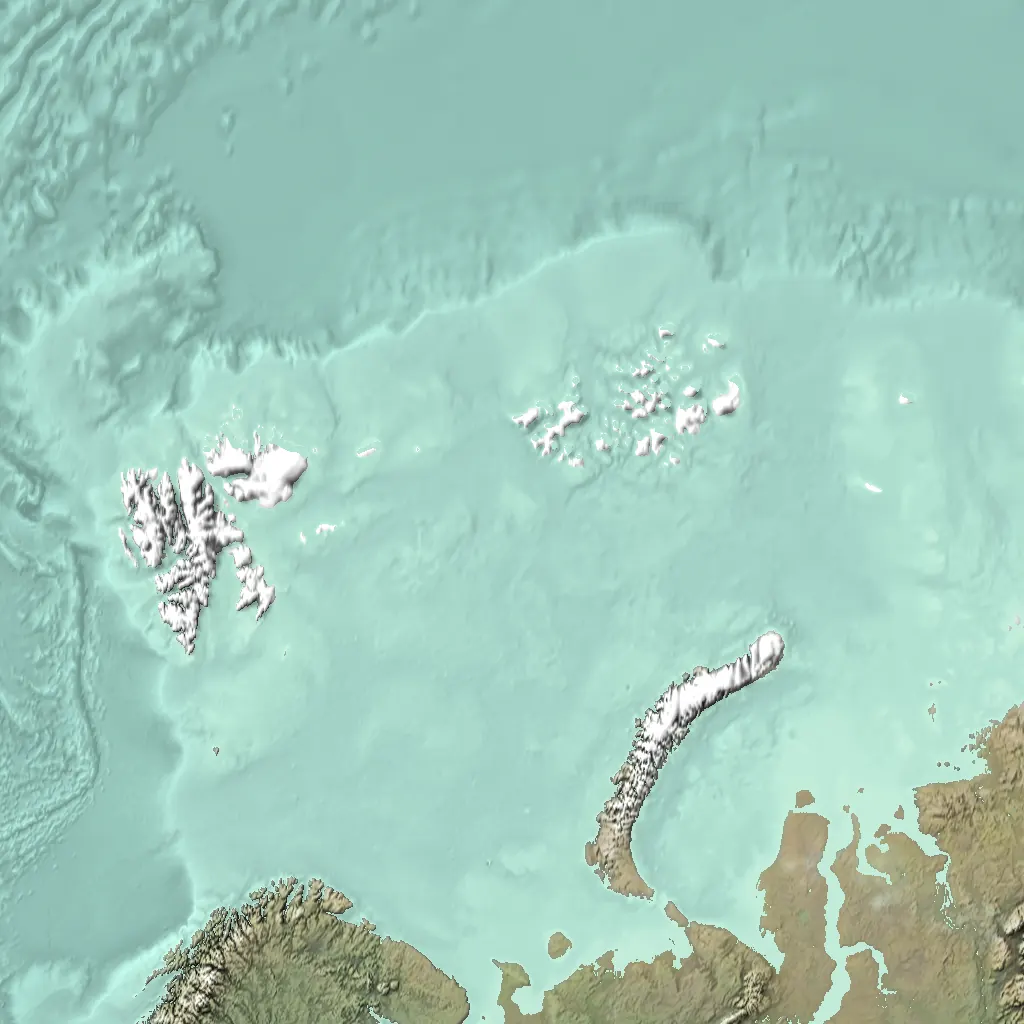
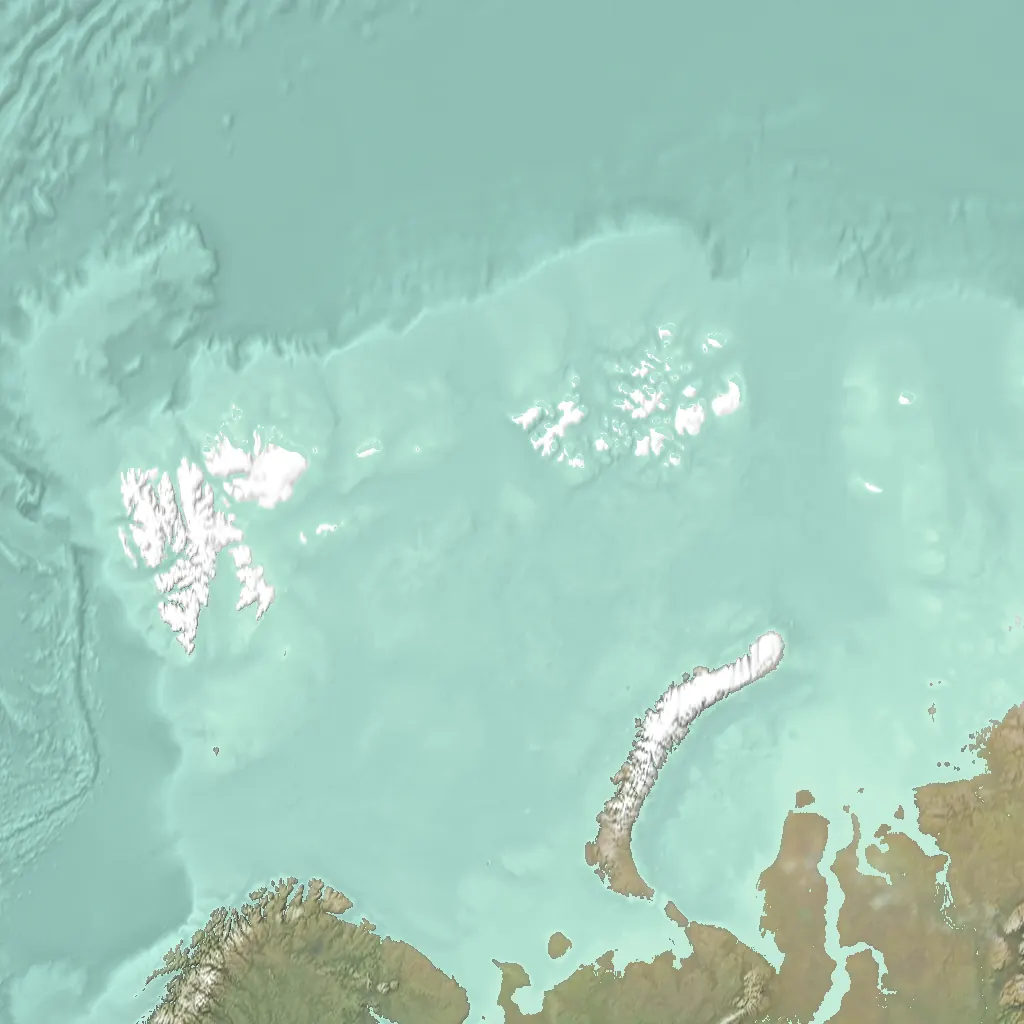
Gentler world view relief, stronger relief eases in with zoom; smooth list scrolling on Android
- World and continent tiles are built with softer shading (lower exaggeration, lighter cast
  shadows and valley shade); the strong close-up relief fades in as you zoom.
- The list of places: only the place on screen animates, covered places are not painted,
  no frosted glass, scroll work once per frame (Android was stuttering and painting grey boxes).

Claude-Session: https://claude.ai/code/session_01KVdNw979WxCLGLb6ytawBs

diff --git a/public/styles.css b/public/styles.css
@@ -63,18 +63,21 @@ button{font:inherit;cursor:pointer;border:0;background:none;color:inherit}
 @supports(height:100svh){:root{--vh:100svh}}
 .stack{position:relative}
 .stack .snap{position:absolute;left:0;width:1px;height:1px;pointer-events:none}
-.reel{position:sticky;top:0;height:var(--vh);overflow:hidden;color:#fff;background:var(--deep)}
-.reel-bg{position:absolute;inset:0;transform:scale(calc(1.06 - var(--c,0)*.06));transform-origin:50% 40%;transition:transform .2s linear}
-.reel.in .reel-bg .media{animation:push 30s ease-in-out infinite alternate}
+.reel{position:sticky;top:0;height:var(--vh);overflow:hidden;color:#fff;background:var(--deep);contain:paint}
+.reel.buried{visibility:hidden}                       /* fully covered by the next place: don't paint it */
+.reel:not(.cur) .amb{display:none}                    /* only the place on screen has drifting clouds and birds */
+.reel:not(.cur) *{animation-play-state:paused}
+.reel-bg{position:absolute;inset:0;transform:scale(calc(1.06 - var(--c,0)*.06));transform-origin:50% 40%}
+.reel.cur .reel-bg .media{animation:push 30s ease-in-out infinite alternate}
 .reel::after{content:"";position:absolute;inset:0;background:linear-gradient(180deg,rgba(0,0,0,.35),transparent 26%,transparent 42%,rgba(0,0,0,.78));pointer-events:none}
 .reel-shade{position:absolute;inset:0;z-index:4;background:#0b0907;opacity:calc(var(--c,0)*.75);pointer-events:none}
 .reel-copy{position:absolute;z-index:3;left:clamp(20px,6vw,80px);right:52px;bottom:calc(76px + env(safe-area-inset-bottom,0px));max-width:660px;opacity:0;transform:translateY(40px);transition:opacity .9s .1s,transform .9s .1s cubic-bezier(.2,.7,.2,1)}
-.reel.in .reel-copy{opacity:1;transform:translateY(calc(var(--c,0)*-60px))}
+.reel.in .reel-copy{opacity:1;transform:none}
 .reel-meta{display:flex;gap:6px 16px;align-items:baseline;font-size:.78rem;letter-spacing:.12em;text-transform:uppercase;opacity:.9;margin-bottom:.6rem;flex-wrap:wrap}
 .reel-no{font-family:var(--serif);font-size:1.5rem;letter-spacing:0;color:var(--lightaccent)}.reel-no small{font-size:.8rem;opacity:.7}
 .reel-copy h3{font-size:clamp(3rem,13vw,7.5rem);line-height:.92;margin:0 0 .7rem}
 .reel-hook{font-size:clamp(1rem,1.6vw,1.2rem);line-height:1.4;max-width:42ch;opacity:.95;margin-bottom:.9rem}
-.reel-fact{font-size:.86rem;line-height:1.45;max-width:46ch;padding:10px 14px;border-left:3px solid var(--accent);background:rgba(30,44,56,.38);backdrop-filter:blur(6px);-webkit-backdrop-filter:blur(6px);border-radius:0 12px 12px 0;margin-bottom:.9rem}
+.reel-fact{font-size:.86rem;line-height:1.45;max-width:46ch;padding:10px 14px;border-left:3px solid var(--accent);background:rgba(30,44,56,.6);border-radius:0 12px 12px 0;margin-bottom:.9rem}
 .reel-fact b{display:block;font-family:var(--serif);font-weight:400;font-size:1.25rem;margin-bottom:2px}
 .reel-row{display:flex;gap:14px;font-size:.9rem;margin-bottom:1rem;opacity:.95}.reel-row span+span::before{content:"·";margin-right:14px;opacity:.6}
 .reel-btns{display:flex;gap:8px;flex-wrap:wrap}
@@ -527,3 +530,6 @@ footer{background:var(--mint2)}
 .ld-copy b{font-family:var(--serif);font-weight:400;font-size:clamp(1.3rem,4.5vw,1.8rem)}
 .ld-copy small:last-child{font-size:.8rem;color:var(--muted)}
 @media (prefers-reduced-motion:reduce){.ld-cloud,.ld-sway,.ld-glow,.ld-blink,.ld-puff{animation:none}.ld-balloon{animation:none;bottom:36vh}}
+
+/* phones: no frosted glass inside the full-screen places (it made Android stutter and paint grey boxes while scrolling) */
+.reel .btn.ghost{backdrop-filter:none;-webkit-backdrop-filter:none;background:rgba(255,255,255,.24)}

diff --git a/public/app.js b/public/app.js
@@ -158,11 +158,17 @@ stack.addEventListener('click',e=>{
 $('#dots').addEventListener('click',e=>{const b=e.target.closest('[data-d]');if(b)toPanel(+b.dataset.d)});
 // as the next place slides up over this one, this one sinks back a little and darkens
 let stackCur=-1;
-function onStack(){
+let stackRAF=0;
+function onStack(){if(!stackRAF)stackRAF=requestAnimationFrame(()=>{stackRAF=0;stackFrame()})}   // at most once per frame
+function stackFrame(){
   const r=stack.getBoundingClientRect(),H=innerHeight,ps=$$('.reel',stack);if(!ps.length)return;
   const h=ps[0].offsetHeight||H;
-  ps.forEach((p,i)=>{const nextTop=r.top+(i+1)*h,c=Math.min(1,Math.max(0,1-nextTop/h));p.style.setProperty('--c',c.toFixed(3));
-    if(r.top+i*h<H*.45)p.classList.add('in')});
+  ps.forEach((p,i)=>{const top=r.top+i*h,nextTop=top+h,c=Math.min(1,Math.max(0,1-nextTop/h));
+    if(Math.abs((p._c??-1)-c)>.004){p._c=c;p.style.setProperty('--c',c.toFixed(3))}   // only touch the places that moved
+    if(top<H*.45)p.classList.add('in');
+    const onScreen=top<H-2&&nextTop>2&&c<.999;
+    if(p.classList.contains('cur')!==onScreen)p.classList.toggle('cur',onScreen);      // only what you can see animates
+    const buried=c>=.999&&i<ps.length-1;if(p.classList.contains('buried')!==buried)p.classList.toggle('buried',buried)});
   const i=Math.min(ps.length-1,Math.max(0,Math.round(-r.top/h)));
   if(i!==stackCur){stackCur=i;$$('#dots button').forEach((d,k)=>d.classList.toggle('on',k===i))}
   $('#dots').classList.toggle('show',r.top<H*.5&&r.bottom>H*.5);
@@ -198,7 +204,8 @@ const pager=(()=>{
     if(t.on===null){if(Math.abs(dy)<6&&Math.abs(dx)<6)return;const a=t.a,s=t.s0,dir=dy<0?1:-1;
       t.on=Math.abs(dy)>Math.abs(dx)&&inRegion(a,s)&&!((dir<0&&s<=a[0]+4)||(dir>0&&s>=a[a.length-1]-4))}
     if(!t.on)return;e.preventDefault();const now=performance.now();t.v=(y-t.last)/Math.max(1,now-t.lt);t.last=y;t.lt=now;
-    scrollTo({top:Math.max(t.a[0],Math.min(t.a[t.a.length-1],t.s0-dy)),behavior:'instant'})},{passive:false});
+    t.want=Math.max(t.a[0],Math.min(t.a[t.a.length-1],t.s0-dy));
+    if(!t.raf)t.raf=requestAnimationFrame(()=>{if(t){t.raf=0;scrollTo({top:t.want,behavior:'instant'})}})},{passive:false});   // follow the finger once per frame
   addEventListener('touchend',()=>{if(!t||!t.on){t=null;return}const dy=t.last-t.y0,a=t.a;let i=nearest(a,t.s0);
     if(dy<-50||t.v<-.35)i=Math.min(a.length-1,i+1);else if(dy>50||t.v>.35)i=Math.max(0,i-1);
     t=null;go(a[i],420)},{passive:true});

diff --git a/public/index.html b/public/index.html
@@ -7,7 +7,7 @@
 <meta name="description" content="We help you unbucket your bucket list. Zoom out to zoom in: pick a place, see where to go, what to taste and what to take away, then go.">
 <link rel="preconnect" href="https://fonts.googleapis.com">
 <link href="https://fonts.googleapis.com/css2?family=Fraunces:opsz,wght@9..144,300;9..144,600&family=Inter:wght@400;500;600&display=swap" rel="stylesheet">
-<link rel="stylesheet" href="styles.css?v=24">
+<link rel="stylesheet" href="styles.css?v=25">
 </head>
 <body>
 <div class="loader" id="loader" role="status" aria-live="polite">
@@ -115,13 +115,13 @@ if(/^#[a-z]+$/.test(location.hash))addEventListener('DOMContentLoaded',function(
   <div class="sheet" id="sheet" role="dialog" aria-modal="true"></div>
 </aside>
 
-<script src="facts.js?v=24"></script>
-<script src="media/photos.js?v=24"></script>
-<script src="offers.js?v=24"></script>
-<script src="routes.js?v=24"></script>
-<script src="wildlife.js?v=24"></script>
-<script src="bucket.js?v=24"></script>
-<script src="app.js?v=24"></script>
-<script src="map.js?v=24"></script>
+<script src="facts.js?v=25"></script>
+<script src="media/photos.js?v=25"></script>
+<script src="offers.js?v=25"></script>
+<script src="routes.js?v=25"></script>
+<script src="wildlife.js?v=25"></script>
+<script src="bucket.js?v=25"></script>
+<script src="app.js?v=25"></script>
+<script src="map.js?v=25"></script>
 </body>
 </html>

diff --git a/public/map.js b/public/map.js
@@ -101,7 +101,8 @@ function drawWorld(c,vx0,vx1,vy0,vy1,land){
   for(const L of [1,2]){const S=TILES.size0*2**L;if(need<S/360*.55)break;   // a sharper level only when the one below would look soft
     const set=(TILES.sets||(TILES.sets={}))[L]||(TILES.sets[L]=new Set(TILES.levels[L]||[]));const n=S/TILES.tile,T=360/n;
     const i0=Math.max(0,Math.floor((vx0+180)/T)),i1=Math.min(n-1,Math.floor((vx1+180)/T)),j0=Math.max(0,Math.floor((vy0+180)/T)),j1=Math.min(n-1,Math.floor((vy1+180)/T));
-    for(let j=j0;j<=j1;j++)for(let i=i0;i<=i1;i++){const key=j+'-'+i;if(!set.has(key))continue;const im=tileImg(L,key);if(im)c.drawImage(im,-180+i*T,-180+j*T,T+e,T+e)}}
+    const fade=L===2?ramp(need,S/360*.55,S/360*.95):1;c.globalAlpha=fade;   // the strong close-up relief eases in as you zoom, never pops
+    for(let j=j0;j<=j1;j++)for(let i=i0;i<=i1;i++){const key=j+'-'+i;if(!set.has(key))continue;const im=tileImg(L,key);if(im)c.drawImage(im,-180+i*T,-180+j*T,T+e,T+e)}c.globalAlpha=1}
 }
 /* Colour looks: each is a full set of relief images in data/looks/<id>/ plus light, haze and vignette colours */
 /* Map colours. One look ships at a time; its relief images live in data/looks/<dir>/ (build with tools/build_relief.py <dir>).

diff --git a/tools/build_relief.py b/tools/build_relief.py
@@ -151,6 +151,7 @@ LOOKS = {
                 peak='#bdb8b0', snow='#ffffff', warm='#fff4e0', cool='#2e2c24', sea=['#c4eedb', '#b3e3d3', '#a6d5c9', '#99c9be', '#8ebeb4'],
                 sat=.94, lift=0, tint=.35, sea_relief=.2, exag_world=24, exag_crop=2.6, local=.55, world_z=5, world_sizes=[(1024, 1024), (4096, 3072)],
                 cast=.5, cast_sea=.32, ao=.38, sun_alt=24, bm_world_z=4,
+                shade_k=1.05, soft=dict(exag_world=.42, cast=.25, cast_sea=.3, ao=.4, local=.65, shade_k=.62),   # multipliers for levels 0 and 1 (the world view)
                 grade=dict(w=.9, l0=47, l1=.5, c=1.0, cg=.35, olive=3, lg=8)),
  # golden hour: emerald and honey, coral light, plum shadows, turquoise lagoons, sapphire sea
  'golden': dict(dry='#f3cf86', mid='#c6d06f', wet='#3f9a5b', boreal='#2f7a5a', dune='#f0b971', rock='#c98d63', high='#e9bf9f', snow='#fff7ee',
@@ -315,7 +316,7 @@ def colourise(elev, lon, lat, exag, palette=None, patches=(), alb=None, gw=None,
             AO += w_ * np.clip(d_ / sc_, 0, 1)
     if PAL.get('mode') == 'relief': kk = kk * (1 - .6 * sstep(.5, 1, SNOW))   # ice sheets stay smooth and bright
     if PAL.get('mode') == 'relief':
-        c = c * (1 + kk[..., None] * np.where(land, np.where(kk > 0, .38, 1.05), .3)[..., None])
+        c = c * (1 + kk[..., None] * np.where(land, np.where(kk > 0, .38, PAL.get('shade_k', 1.05)), .3)[..., None])
     else:
         c = c * (1 + kk[..., None] * np.where(land, np.where(kk > 0, .45, .8), .3)[..., None])
     c = mix(c, hexrgb(PAL['warm']), np.clip(kk, 0, 1) * np.where(land, .28, 0))        # warm light
@@ -361,14 +362,22 @@ def mworld(levels=(0, 1, 2)):
     def elev_at(lon, lat):
         px, py = merc_px(lon, lat, z); el = sample(m, px, py); el[lat < -84] = 2500; return el
     os.makedirs(OUT + 'm', exist_ok=True)
-    norms = {}; S0 = 2048
+    S0 = 2048
+    base = dict(PAL); soft = {k: base[k] * v for k, v in PAL.get('soft', {}).items() if k in base}
+    def look(L): PAL.clear(); PAL.update(base); PAL.update(soft if L < 2 else {})
     lon, lat = mgrid(-180, 180, 180, -180, S0, S0)
-    rgb, land0 = colourise(elev_at(lon, lat), lon, lat, exag=PAL['exag_world'], alb=albedo(lon, lat, 4) if PAL.get('grade') else None, gw=S0, norms=norms)
-    Image.fromarray(rgb).save(OUT + 'm/0.webp', quality=80, method=6); print('m0 done', norms, flush=True)
-    have = {}
+    el0 = elev_at(lon, lat); alb0 = albedo(lon, lat, 4) if PAL.get('grade') else None
+    norms_by = {}
+    for grp in ((0,), (2,)):             # one brightness scale per look, from the whole world, so tiles join without seams
+        look(grp[0]); norms_by[grp[0]] = {}
+        rgb, land0 = colourise(el0, lon, lat, exag=PAL['exag_world'], alb=alb0, gw=S0, norms=norms_by[grp[0]])
+        if grp[0] == 0: Image.fromarray(rgb).save(OUT + 'm/0.webp', quality=80, method=6); print('m0 done', norms_by[0], flush=True)
+    norms_by[1] = norms_by[0]
+    old = OUT + 'm/tiles.json'
+    have = {int(k): v for k, v in json.load(open(old))['levels'].items()} if os.path.exists(old) else {}
     for L in levels:
         if L == 0: continue
-        S = S0 * 2 ** L; n = S // 1024; T = 360 / n; M = 96; px = 360 / S; have[L] = []
+        S = S0 * 2 ** L; n = S // 1024; T = 360 / n; M = 96; px = 360 / S; have[L] = []; look(L); norms = norms_by[L]
         os.makedirs(OUT + f'm/{L}', exist_ok=True)
         for j in range(n):
             for i in range(n):
@@ -382,7 +391,8 @@ def mworld(levels=(0, 1, 2)):
                 Image.fromarray(rgb[M:M + 1024, M:M + 1024]).save(OUT + f'm/{L}/{j}-{i}.webp', quality=78, method=6)
                 have[L].append(f'{j}-{i}')
             print('level', L, 'row', j, 'done', flush=True)
-    json.dump({'size0': S0, 'tile': 1024, 'levels': {str(k): v for k, v in have.items()}}, open(OUT + 'm/tiles.json', 'w'))
+    look(2); PAL.clear(); PAL.update(base)
+    json.dump({'size0': S0, 'tile': 1024, 'levels': {str(k): v for k, v in sorted(have.items())}}, open(OUT + 'm/tiles.json', 'w'))
 
 LOOK_PALETTE = {'ladakh': '#c7ad86', 'rajasthan': '#dcc28f', 'morocco': '#d6b98a', 'serengeti': '#c9c07f', 'iceland': '#a9ad8e',
                 'patagonia': '#b5b48c', 'peru': '#a9ae7c', 'kyoto': '#86a66d', 'bali': '#76a061', 'newzealand': '#93ad74',
@@ -431,5 +441,6 @@ if __name__ == '__main__':
         PAL = LOOKS[look]; OUT = BASE + f'looks/{look}/'; os.makedirs(OUT, exist_ok=True); print('== look', look, flush=True)
         if not rest or 'world' in rest: mworld()
         if 'world0' in rest: mworld((0,))
+        if 'world01' in rest: mworld((0, 1))
         if not rest or 'crops' in rest: crops([a for a in rest if a not in ('world', 'crops')] or None)
         print(look, sum(os.path.getsize(OUT + f) for f in os.listdir(OUT)) // 1024, 'KB total', flush=True)

diff --git a/CLAUDE.md b/CLAUDE.md
@@ -30,7 +30,8 @@ Small fixes (typos, one-line tweaks) can be batched into the next deploy.
   Lakes come from that colour data (`LOOK.dataLakes`); only signature lakes with a colour in routes.js (Pangong, Tso Moriri) are drawn by hand.
   Projection: Web Mercator (like the reference and Google Maps). In map.js the map's y is `MY(lat)` (= -mercator(lat) in degree units);
   never use -lat for a screen position. World imagery is a pyramid: `m/0.webp` overview + 1024 px tiles at 4096 and 8192 px (`drawWorld`,
-  loaded only where you look, LRU of 40), then per-destination close-ups (also Mercator) fade in at k 9-20. `LOOK.calm` turns off the dusk tint and tilt-shift blur and
+  loaded only where you look, LRU of 40; levels 0-1 are built gentler via `soft` in the relief look because the client found the strong
+  mountains scary on the front page; level 2 fades in with zoom), then per-destination close-ups (also Mercator) fade in at k 9-20. `LOOK.calm` turns off the dusk tint and tilt-shift blur and
   keeps the vignette light: the client wants the colours clean, like the printed reference. Prices are INR (`money()` in app.js).
   Earlier looks (vivid, satellite) are in git history; `LOOKS.satellite` / `LOOKS.vivid` stay defined in map.js. Only `public/data/looks/relief/`
   ships. Rebuild with `python3 tools/build_relief.py relief world crops` (needs tools/mapdata.json next to it).
@@ -52,6 +53,8 @@ Small fixes (typos, one-line tweaks) can be batched into the next deploy.
 - Home list (below the map): one place fills the screen at a time (stack of sticky full-screen panels, the next slides over the last, like
   oneintheorangejacket.com). `pager` in app.js moves exactly one place per swipe / wheel step / arrow key inside the list; CSS scroll-snap was
   unreliable across browsers. Category chips filter the stack.
+- Android smoothness: in the list only the place on screen animates (`.cur`), fully covered places get `.buried` (not painted), no
+  backdrop-filter inside `.reel`, scroll work is batched per frame. Keep it that way; Android stuttered and painted grey boxes before.
 - Story banner: drifts by JS (`initTale`, ~40 px/s phone, 52 desktop), and the visitor can swipe/drag it, use ‹ ❚❚ ›; it waits 3 s after a touch.
   No hover-pause (phones fake hover on tap and never end it).
 - Map layering (map.js render): relief layers with a soft land shadow, a small plane flying between places, birds, noise-generated clouds (cumulus + high wisps with parallax) with soft shadows, sun shimmer on the sea,
